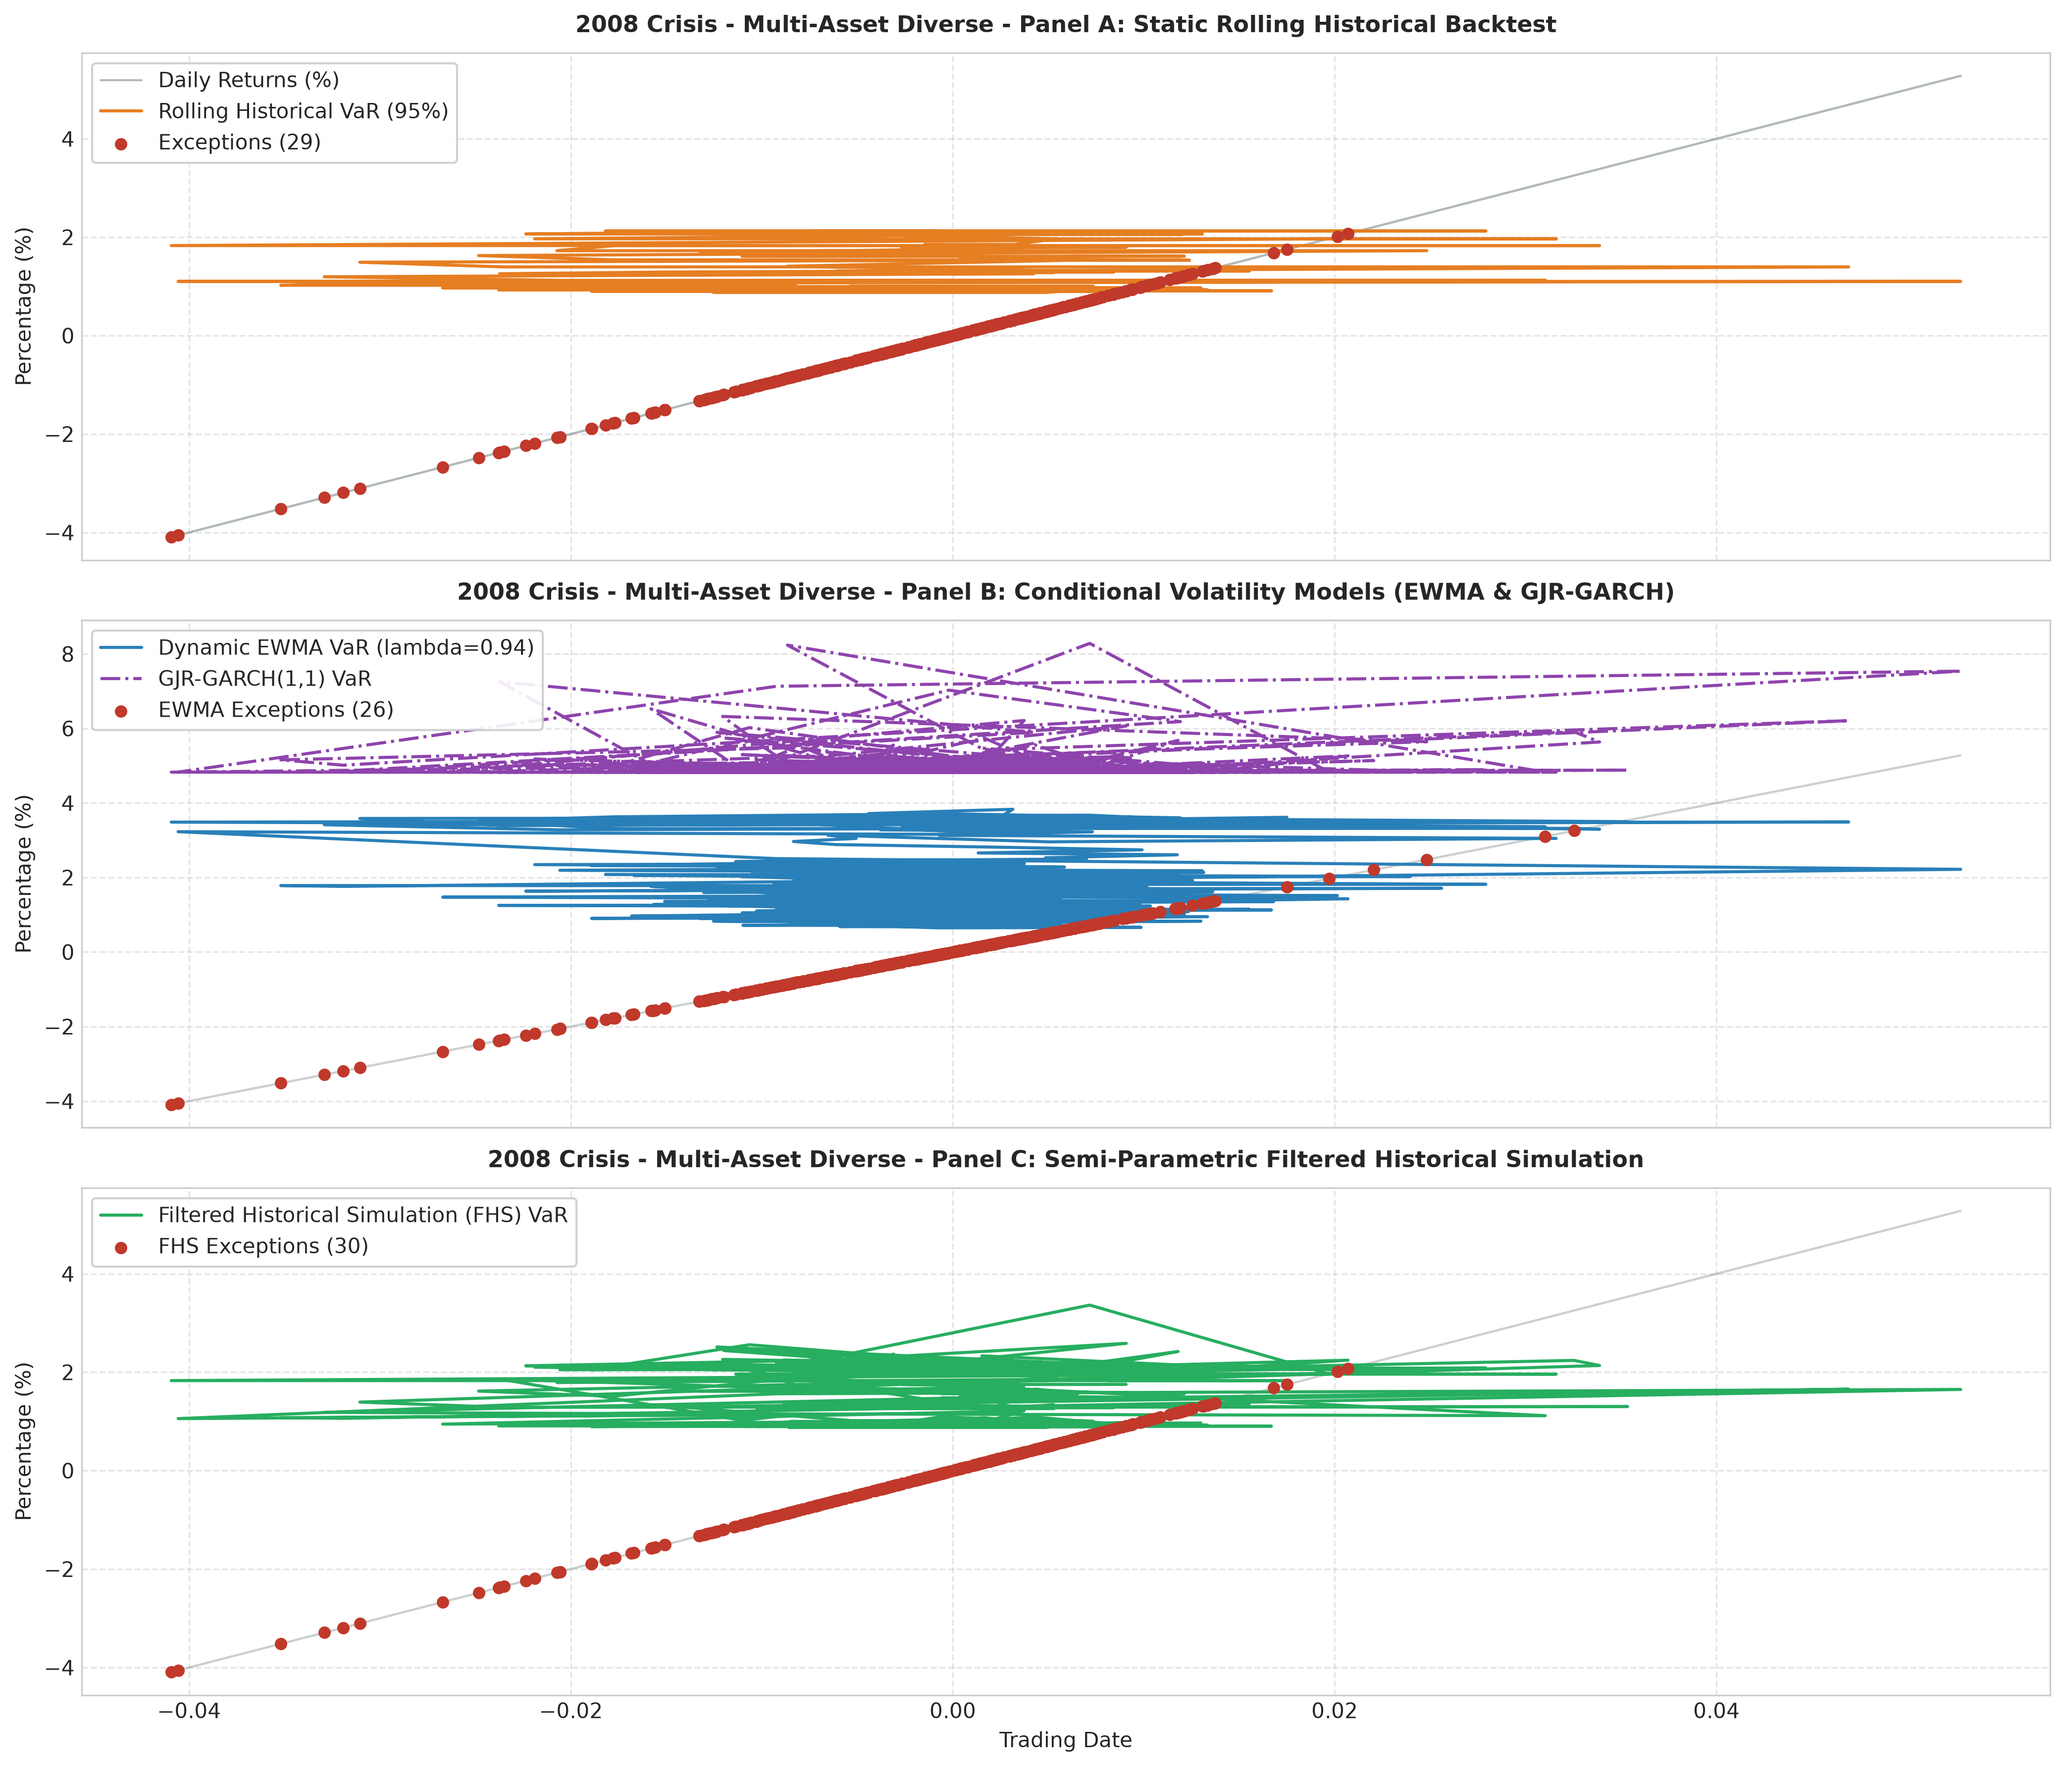
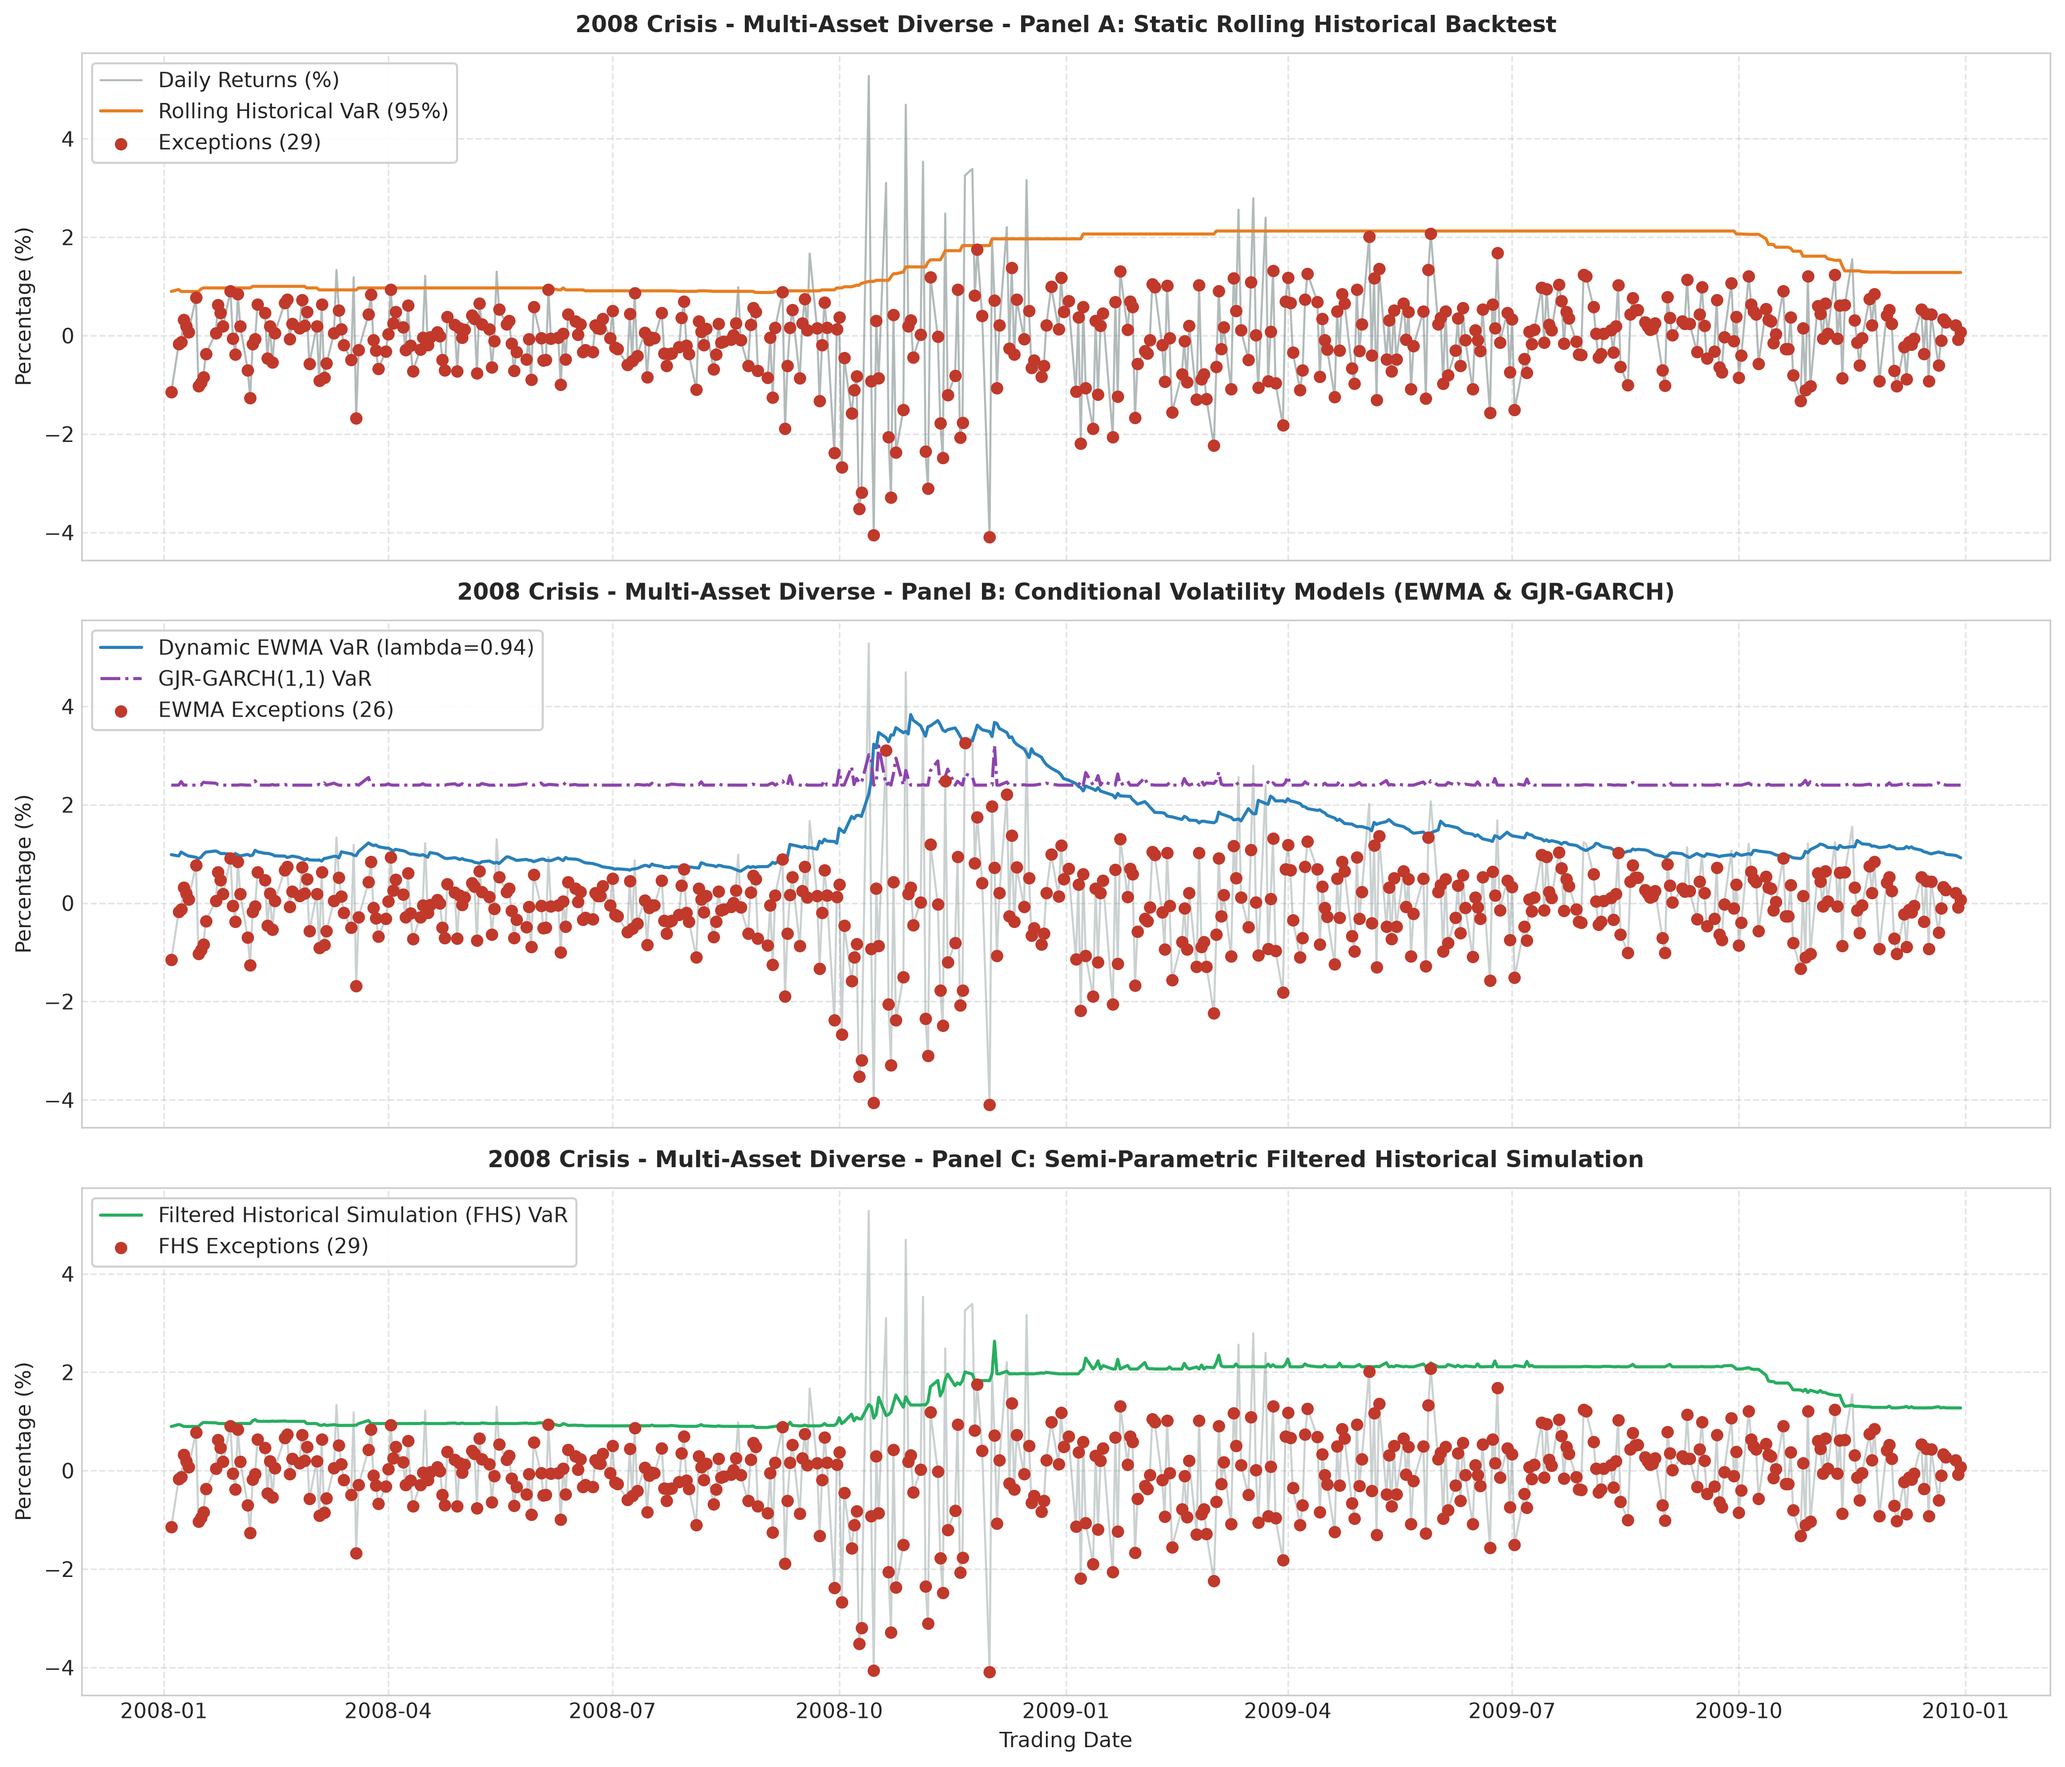
Update week10 descriptive summary CSV with corrected statistical values and enhance visualization functions for clarity

diff --git a/src/stress_engine/visualization.py b/src/stress_engine/visualization.py
@@ -38,24 +38,23 @@ def plot_var_backtest_diagnostics(
     path = Path(output_filename)
     path.parent.mkdir(parents=True, exist_ok=True)
 
-    # Run backtests to gather data series (unpacking backtest result, dates array, var array)
-    hist_bt, hist_dates, hist_var = portfolio.run_rolling_out_of_sample_backtest(
+    # Run backtests to gather data series
+    hist_bt, _, hist_var = portfolio.run_rolling_out_of_sample_backtest(
         lookback_window=lookback_window, method="historical"
     )
-    ewma_bt, ewma_dates, ewma_var = portfolio.run_ewma_out_of_sample_backtest(
+    ewma_bt, _, ewma_var = portfolio.run_ewma_out_of_sample_backtest(
         lookback_window=lookback_window, decay_factor=0.94
     )
-    garch_bt, garch_dates, garch_var = portfolio.run_gjr_garch_out_of_sample_backtest(
+    garch_bt, _, garch_var = portfolio.run_gjr_garch_out_of_sample_backtest(
         lookback_window=lookback_window
     )
-    fhs_bt, fhs_dates, fhs_var = portfolio.run_fhs_out_of_sample_backtest(
+    fhs_bt, _, fhs_var = portfolio.run_fhs_out_of_sample_backtest(
         lookback_window=lookback_window
     )
 
-    # Use explicit integer/positional iloc or align with the exact index dates from portfolio returns
-    # Since out-of-sample aligns with the tail end of the portfolio index past the lookback window:
-    # Extract the aggregate portfolio percentage return series rather than multi-asset columns
-    returns = portfolio.returns.iloc[-len(hist_dates) :].dot(portfolio.weights)
+    # Extract the exact out-of-sample datetime index and aggregate portfolio returns
+    out_of_sample_dates = portfolio.returns.index[-len(hist_var) :]
+    returns = portfolio.returns.iloc[-len(hist_var) :].dot(portfolio.weights)
     if not isinstance(returns, np.ndarray):
         returns = returns.to_numpy(dtype=np.float64, copy=False)
 
@@ -65,7 +64,7 @@ def plot_var_backtest_diagnostics(
     # Panel 1: Static Rolling Historical vs Returns & Breaches
     ax1 = axes[0]
     ax1.plot(
-        hist_dates,
+        out_of_sample_dates,
         returns * 100,
         color="#7f8c8d",
         alpha=0.6,
@@ -73,17 +72,16 @@ def plot_var_backtest_diagnostics(
         label="Daily Returns (%)",
     )
     ax1.plot(
-        hist_dates,
+        out_of_sample_dates,
         -hist_var * 100,
         color="#e67e22",
         lw=1.5,
         label="Rolling Historical VaR (95%)",
     )
-    # Compute breach mask directly from returns and VaR series
     breach_mask_hist = returns < -hist_var
     if np.any(breach_mask_hist):
         ax1.scatter(
-            np.array(hist_dates)[breach_mask_hist],
+            out_of_sample_dates[breach_mask_hist],
             returns[breach_mask_hist] * 100,
             color="#c0392b",
             s=25,
@@ -102,7 +100,7 @@ def plot_var_backtest_diagnostics(
     # Panel 2: Dynamic EWMA & GJR-GARCH Conditional Volatility Models
     ax2 = axes[1]
     ax2.plot(
-        ewma_dates,
+        out_of_sample_dates,
         returns * 100,
         color="#7f8c8d",
         alpha=0.4,
@@ -110,14 +108,14 @@ def plot_var_backtest_diagnostics(
         label="_nolegend_",
     )
     ax2.plot(
-        ewma_dates,
+        out_of_sample_dates,
         -ewma_var * 100,
         color="#2980b9",
         lw=1.5,
         label="Dynamic EWMA VaR (lambda=0.94)",
     )
     ax2.plot(
-        garch_dates,
+        out_of_sample_dates,
         -garch_var * 100,
         color="#8e44ad",
         lw=1.5,
@@ -127,7 +125,7 @@ def plot_var_backtest_diagnostics(
     breach_mask_ewma = returns < -ewma_var
     if np.any(breach_mask_ewma):
         ax2.scatter(
-            np.array(ewma_dates)[breach_mask_ewma],
+            out_of_sample_dates[breach_mask_ewma],
             returns[breach_mask_ewma] * 100,
             color="#c0392b",
             s=25,
@@ -146,7 +144,7 @@ def plot_var_backtest_diagnostics(
     # Panel 3: Filtered Historical Simulation (FHS) Hybrid Model
     ax3 = axes[2]
     ax3.plot(
-        fhs_dates,
+        out_of_sample_dates,
         returns * 100,
         color="#7f8c8d",
         alpha=0.4,
@@ -154,7 +152,7 @@ def plot_var_backtest_diagnostics(
         label="_nolegend_",
     )
     ax3.plot(
-        fhs_dates,
+        out_of_sample_dates,
         -fhs_var * 100,
         color="#27ae60",
         lw=1.5,
@@ -163,7 +161,7 @@ def plot_var_backtest_diagnostics(
     breach_mask_fhs = returns < -fhs_var
     if np.any(breach_mask_fhs):
         ax3.scatter(
-            np.array(fhs_dates)[breach_mask_fhs],
+            out_of_sample_dates[breach_mask_fhs],
             returns[breach_mask_fhs] * 100,
             color="#c0392b",
             s=25,
@@ -195,16 +193,12 @@ def plot_monte_carlo_drawdown_surface(
     path = Path(output_filename)
     path.parent.mkdir(parents=True, exist_ok=True)
 
-    # Placeholder/mock tensor structure simulation for surface plotting if master tensor is absent
     fig = plt.figure(figsize=(10, 8), dpi=300)
     ax = fig.add_subplot(projection="3d")
 
-    # Sample grid coordinates representing volatility tiers and shock magnitudes
     vol_grid = np.array([0.10, 0.20, 0.35])
     shock_grid = np.array([-0.15, -0.30, -0.50])
     vols, shocks = np.meshgrid(vol_grid, shock_grid)
-
-    # Representative distress probability surface response
     distress_prob = 1.0 / (1.0 + np.exp(-(vols * 10.0 + shocks * 5.0)))
 
     surf = ax.plot_surface(
